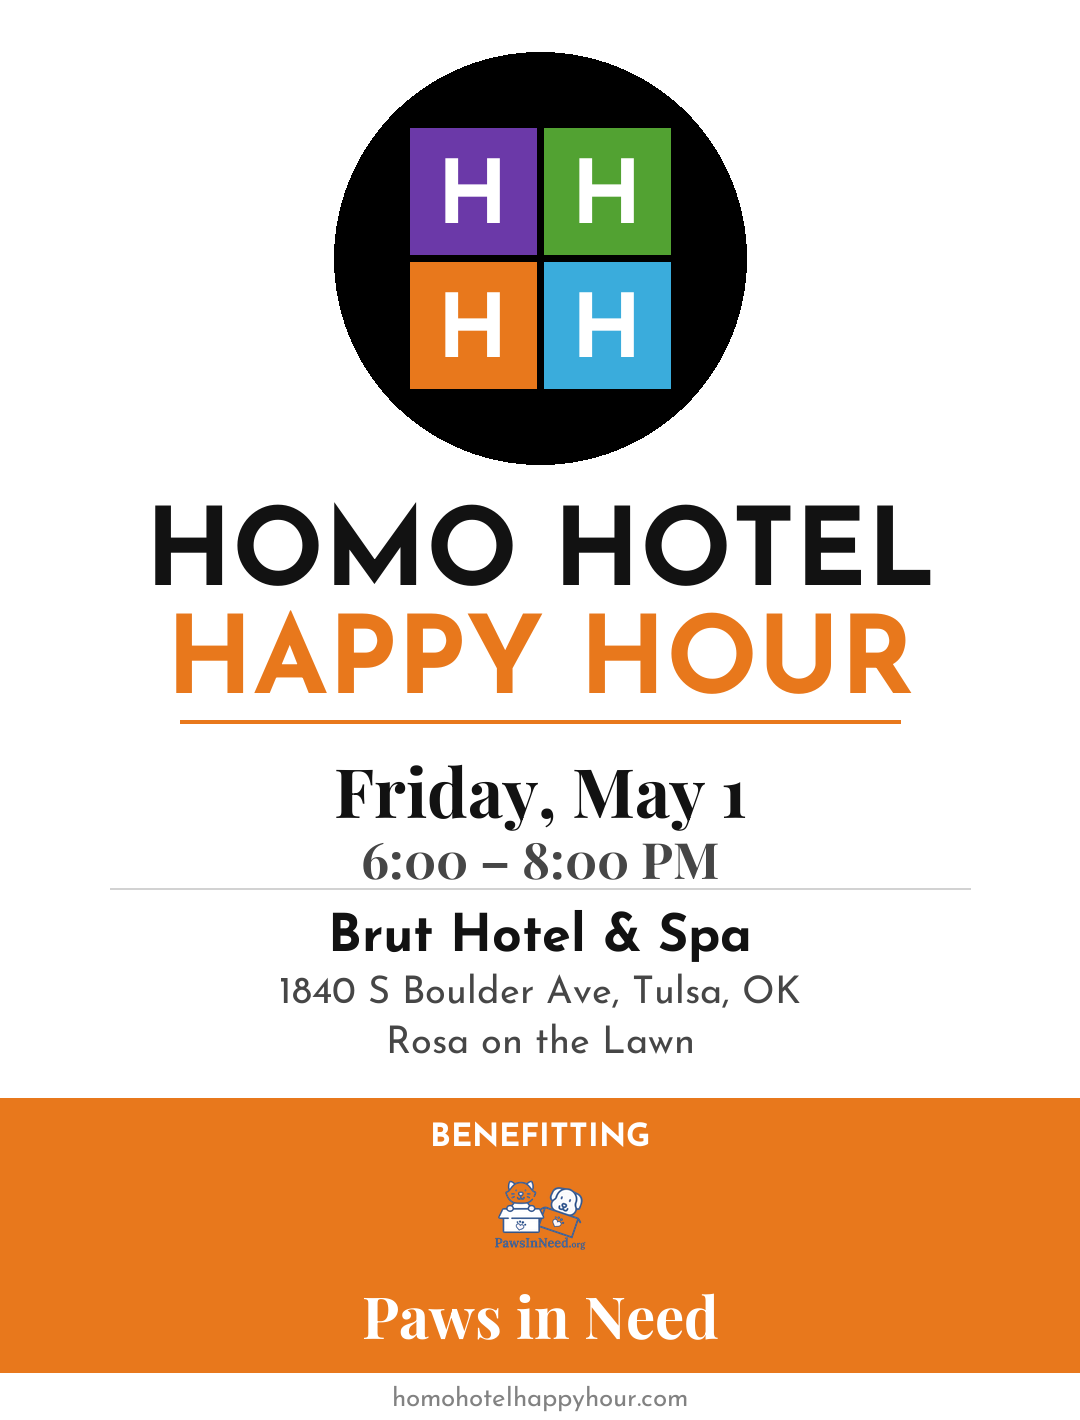
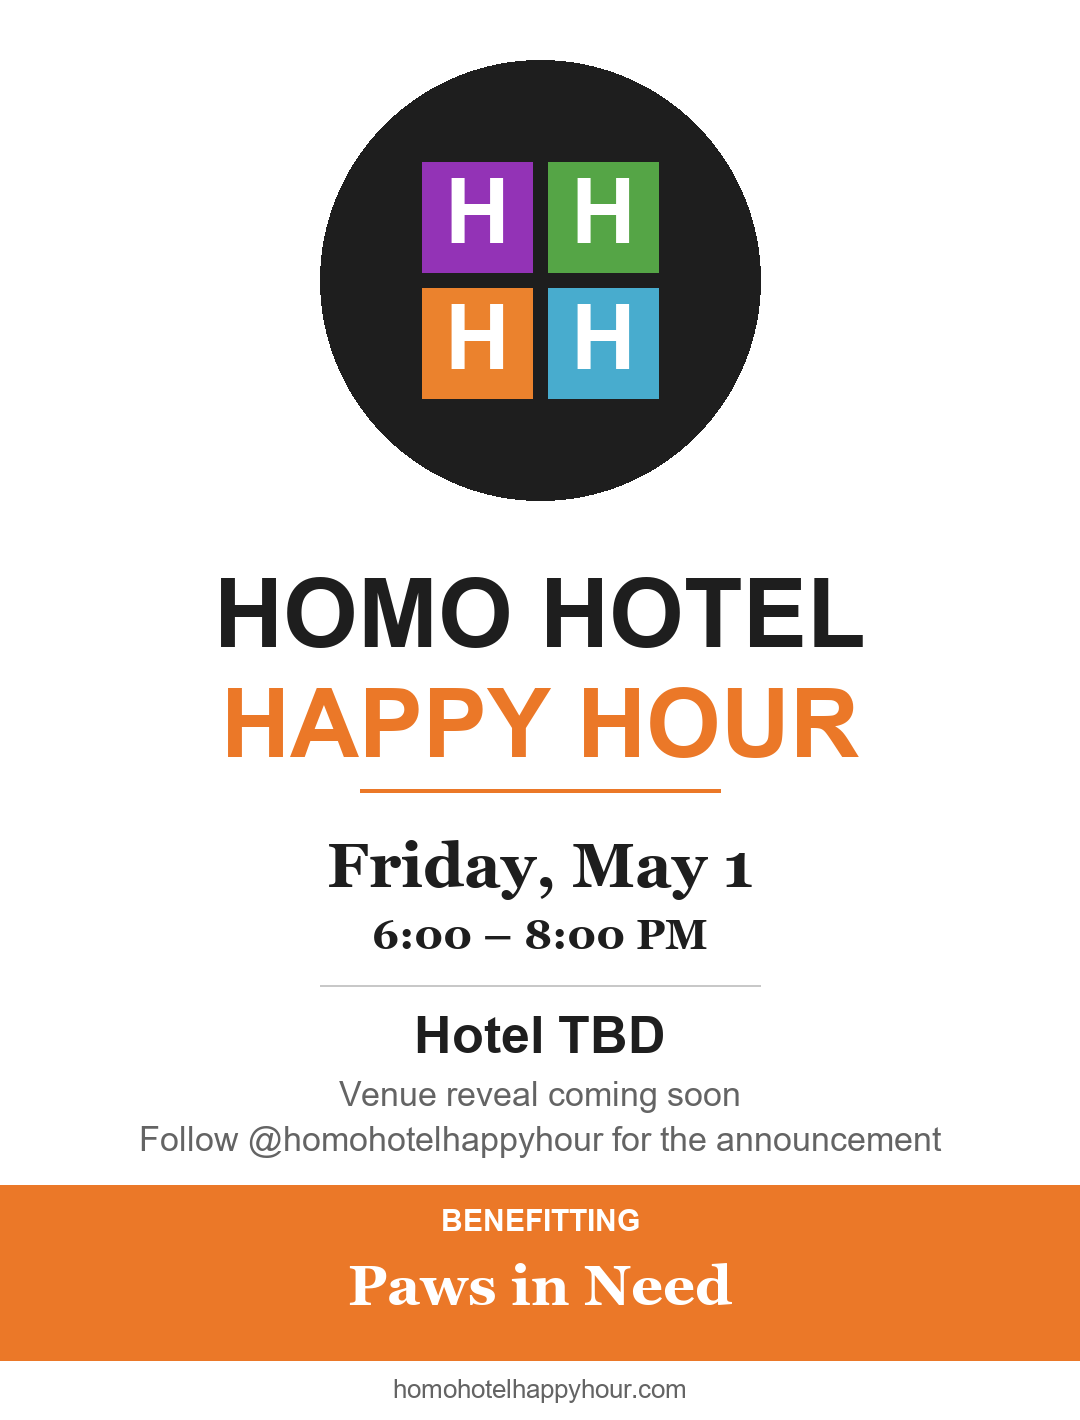
HHHH May promo: swap Brut for Hotel TBD (venue pulled out)

Changed region(s): [[0.0, 0.031, 1.0, 0.9915]]

diff --git a/gen_hhhh_promo_may.py b/gen_hhhh_promo_may.py
@@ -1,0 +1,105 @@
+"""Regenerate May 2026 HHHH promo (Hotel TBD) - Brut pulled out."""
+from PIL import Image, ImageDraw, ImageFont
+from pathlib import Path
+
+W, H = 1080, 1420
+OUT = Path(r"C:\Users\ryan\OneDrive\Desktop\repos\tulsagays\docs\images\hhhh\hhhh_promo_2026-05.png")
+
+WHITE = (255, 255, 255)
+BLACK = (30, 30, 30)
+ORANGE = (235, 120, 40)
+GRAY = (100, 100, 100)
+LIGHT = (200, 200, 200)
+
+FONT_DIR = Path(r"C:\Windows\Fonts")
+def ttf(name, size):
+    for p in (FONT_DIR/name, Path(name)):
+        if p.exists():
+            return ImageFont.truetype(str(p), size)
+    return ImageFont.load_default()
+
+im = Image.new("RGB", (W, H), WHITE)
+d = ImageDraw.Draw(im)
+
+# HHHH logo badge (4-square)
+cx, cy = W // 2, 280
+r = 220
+d.ellipse((cx - r, cy - r, cx + r, cy + r), fill=BLACK)
+s = 110
+colors = [(147, 51, 182), (85, 165, 70), (235, 130, 45), (72, 172, 206)]  # purple, green, orange, cyan
+letters = ["H", "H", "H", "H"]
+positions = [(-s - 8, -s - 8), (8, -s - 8), (-s - 8, 8), (8, 8)]
+try:
+    badge_font = ttf("arialbd.ttf", 90)
+except Exception:
+    badge_font = ImageFont.load_default()
+for (dx, dy), col, L in zip(positions, colors, letters):
+    x0, y0 = cx + dx, cy + dy
+    x1, y1 = x0 + s, y0 + s
+    d.rectangle((x0, y0, x1, y1), fill=col)
+    bb = d.textbbox((0, 0), L, font=badge_font)
+    tw, th = bb[2] - bb[0], bb[3] - bb[1]
+    d.text((x0 + (s - tw)/2 - bb[0], y0 + (s - th)/2 - bb[1] - 6), L, fill=WHITE, font=badge_font)
+
+# Title "HOMO HOTEL" / "HAPPY HOUR"
+title_font = ttf("arialbd.ttf", 96)
+t1 = "HOMO HOTEL"
+bb = d.textbbox((0, 0), t1, font=title_font)
+d.text(((W - (bb[2] - bb[0]))/2 - bb[0], 560), t1, fill=BLACK, font=title_font)
+t2 = "HAPPY HOUR"
+bb = d.textbbox((0, 0), t2, font=title_font)
+d.text(((W - (bb[2] - bb[0]))/2 - bb[0], 670), t2, fill=ORANGE, font=title_font)
+
+# Thin divider under title
+d.line((W/2 - 180, 790, W/2 + 180, 790), fill=ORANGE, width=4)
+
+# Date
+serif = ttf("georgiab.ttf", 62)
+date_s = "Friday, May 1"
+bb = d.textbbox((0, 0), date_s, font=serif)
+d.text(((W - (bb[2] - bb[0]))/2 - bb[0], 830), date_s, fill=BLACK, font=serif)
+
+time_font = ttf("georgiab.ttf", 42)
+time_s = "6:00 – 8:00 PM"
+bb = d.textbbox((0, 0), time_s, font=time_font)
+d.text(((W - (bb[2] - bb[0]))/2 - bb[0], 910), time_s, fill=BLACK, font=time_font)
+
+# Separator
+d.line((W/2 - 220, 985, W/2 + 220, 985), fill=LIGHT, width=2)
+
+# Venue - Hotel TBD
+venue_font = ttf("arialbd.ttf", 52)
+v = "Hotel TBD"
+bb = d.textbbox((0, 0), v, font=venue_font)
+d.text(((W - (bb[2] - bb[0]))/2 - bb[0], 1005), v, fill=BLACK, font=venue_font)
+
+sub_font = ttf("arial.ttf", 34)
+sub = "Venue reveal coming soon"
+bb = d.textbbox((0, 0), sub, font=sub_font)
+d.text(((W - (bb[2] - bb[0]))/2 - bb[0], 1075), sub, fill=GRAY, font=sub_font)
+
+sub2 = "Follow @homohotelhappyhour for the announcement"
+bb = d.textbbox((0, 0), sub2, font=sub_font)
+d.text(((W - (bb[2] - bb[0]))/2 - bb[0], 1120), sub2, fill=GRAY, font=sub_font)
+
+# Orange band - BENEFITTING
+band_top, band_bot = 1185, 1360
+d.rectangle((0, band_top, W, band_bot), fill=ORANGE)
+ben_font = ttf("arialbd.ttf", 30)
+ben = "BENEFITTING"
+bb = d.textbbox((0, 0), ben, font=ben_font)
+d.text(((W - (bb[2] - bb[0]))/2 - bb[0], band_top + 18), ben, fill=WHITE, font=ben_font)
+
+charity_font = ttf("georgiab.ttf", 56)
+ch = "Paws in Need"
+bb = d.textbbox((0, 0), ch, font=charity_font)
+d.text(((W - (bb[2] - bb[0]))/2 - bb[0], band_top + 68), ch, fill=WHITE, font=charity_font)
+
+# Footer URL
+foot_font = ttf("arial.ttf", 26)
+foot = "homohotelhappyhour.com"
+bb = d.textbbox((0, 0), foot, font=foot_font)
+d.text(((W - (bb[2] - bb[0]))/2 - bb[0], band_bot + 14), foot, fill=GRAY, font=foot_font)
+
+im.save(OUT, "PNG", optimize=True)
+print(f"Wrote {OUT} ({OUT.stat().st_size} bytes)")
